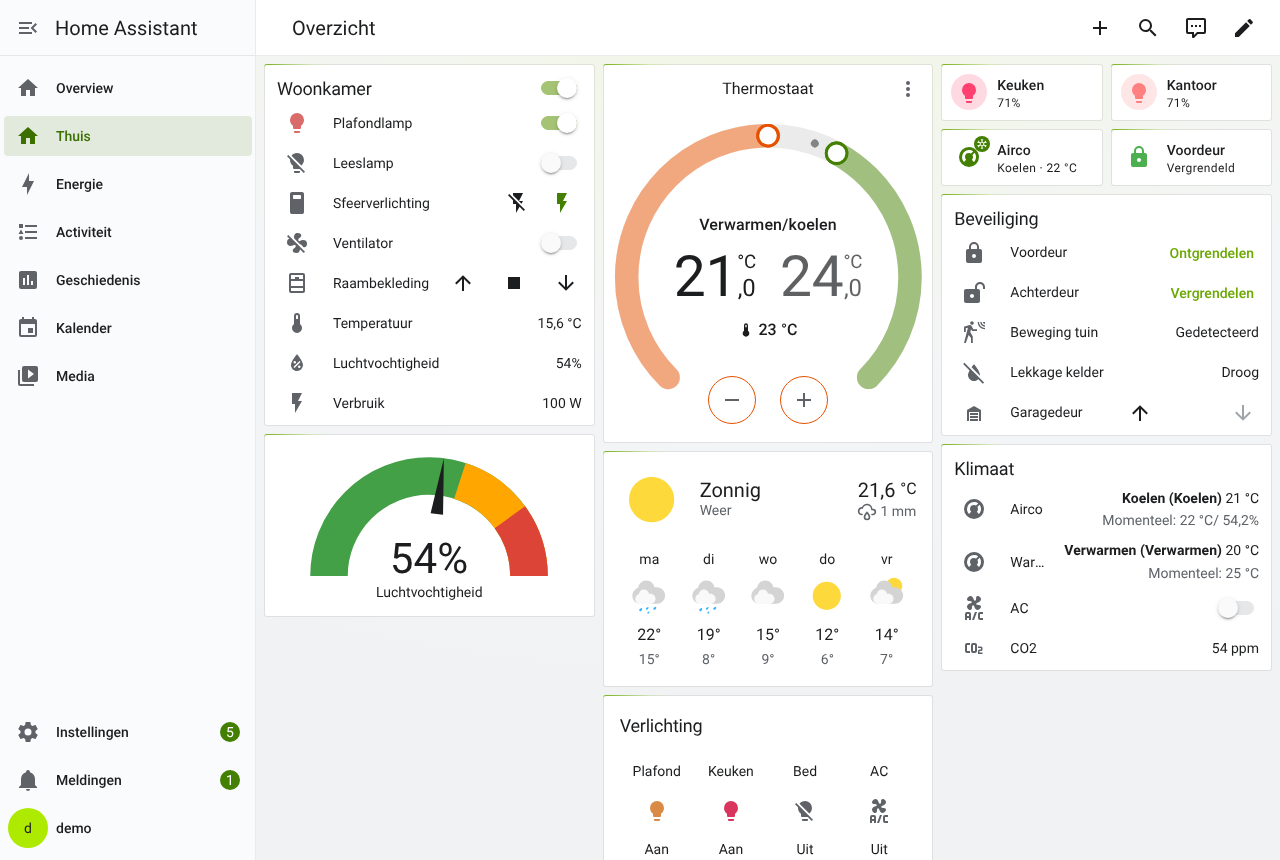
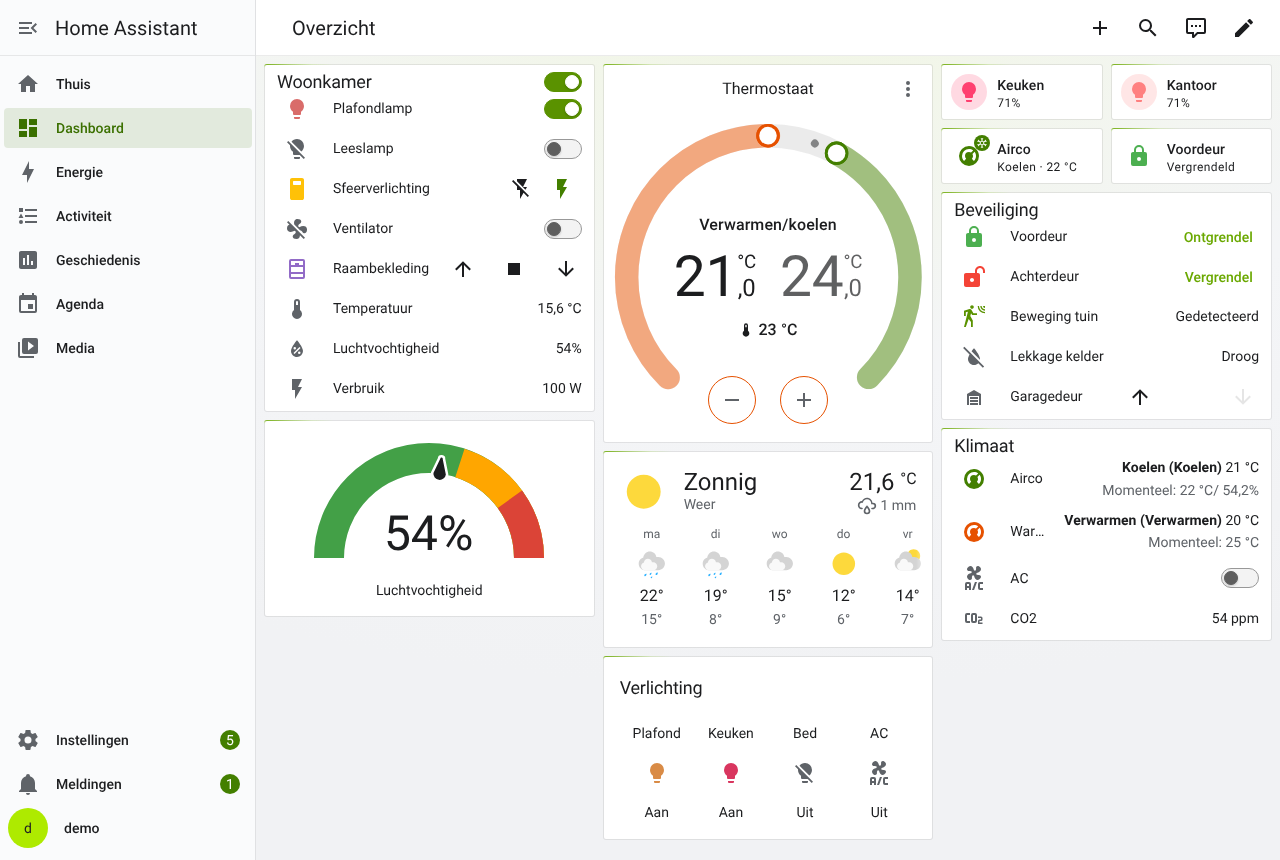
Switch theme styling from card-mod to UI eXtension (UIX)
card-mod no longer loads `-yaml` theme variables since Home Assistant
2026.8, so the compact row styling (card-mod-row-yaml) was not applied.
UI eXtension is card-mod's successor and is what current Home Assistant
installs use.

Rename the theme keys to their UIX equivalents: card-mod-theme ->
uix-theme, card-mod-card -> uix-card, card-mod-row-yaml -> uix-row-yaml.
The CSS itself is unchanged. UIX reads these from the top level of the
theme, so they keep working in both light and dark mode.

The README now lists UIX as the requirement, explains how to add it as
an integration and how to migrate from card-mod. The validation workflow
checks uix-theme and rejects leftover card-mod-* keys. Screenshots are
retaken on Home Assistant 2026.10.4 with UIX 8.4.0.

Claude-Session: https://claude.ai/code/session_017m5WBAKCG499LFapbTeH7Y

diff --git a/README.md b/README.md
@@ -45,7 +45,8 @@ Automatisch, Licht of Donker.
 - Kleurpalet voor HA 2025.8+ (`ha-color-primary-*`) en grafiekkleuren.
 - Afgestemde syntax-highlighting per theme en modus.
 - In de lichte modus haalt tekst in de accentkleur minimaal 4.5:1 contrast.
-- Compacte rijen (minimaal 32px) en compactere kaart-padding via card-mod.
+- Compacte rijen (minimaal 32px) en compactere kaart-padding via
+  [UI eXtension (UIX)](https://uix.lf.technology/).
   Rijen met hogere inhoud, zoals een status op twee regels, `secondary_info`,
   een invoerveld of een dropdown, groeien mee in plaats van te overlappen.
 
@@ -53,9 +54,15 @@ Automatisch, Licht of Donker.
 
 - Home Assistant **2025.8** of nieuwer (voor het nieuwe kleurpalet; oudere
   versies werken grotendeels, maar negeren die variabelen).
-- [card-mod](https://github.com/thomasloven/lovelace-card-mod) (via HACS) voor
-  de compacte rijen en de kaart-styling. Zonder card-mod werken de kleuren wel,
-  maar niet de compacte layout.
+- [UI eXtension (UIX)](https://uix.lf.technology/) (via HACS), de opvolger
+  van card-mod, voor de compacte rijen en de kaart-styling. Zonder UIX werken
+  de kleuren wel, maar niet de compacte layout.
+
+  UIX is een integratie: voeg hem na het downloaden in HACS toe via
+  **Instellingen** → **Apparaten & diensten** → **Integratie toevoegen** →
+  **UI eXtension**. Een `extra_module_url` of dashboard-resource is niet nodig.
+
+Getest met Home Assistant 2026.10.4 en UI eXtension 8.4.0.
 
 ## Installatie
 
@@ -80,7 +87,25 @@ Automatisch, Licht of Donker.
 Kopieer `themes/compact-dark-gradient.yaml` naar de map `themes/` in je
 Home Assistant-configuratie en volg daarna stap 5 t/m 7 hierboven.
 
-## Upgraden vanaf 1.x
+## Upgraden
+
+### Van 2.x naar 3.0: card-mod → UIX
+
+Card-mod laadt sinds Home Assistant 2026.8 geen `-yaml`-themevariabelen meer,
+waardoor de compacte rijen niet werkten. Vanaf 3.0 gebruiken de themes de
+variabelen van UIX (`uix-theme`, `uix-card`, `uix-row-yaml`); card-mod leest
+die niet.
+
+1. Verwijder card-mod in HACS en haal een eventuele card-mod-regel uit
+   `frontend: extra_module_url:` in `configuration.yaml`.
+2. Installeer UI eXtension via HACS en voeg de integratie toe (zie
+   [Vereisten](#vereisten)).
+3. Herstart Home Assistant.
+
+Bestaande `card_mod:`-configuratie in je eigen kaarten blijft werken: UIX
+leest die ook.
+
+### Van 1.x naar 2.0: nieuwe themanamen
 
 In 2.0 zijn de themes hernoemd, omdat ze nu zowel licht als donker zijn:
 
@@ -95,15 +120,15 @@ naam in automatiseringen of in `frontend.set_theme`, pas die dan ook aan.
 
 ## Aanpassen
 
-Elk theme bestaat uit een gedeeld deel (compacte layout en card-mod) en per
+Elk theme bestaat uit een gedeeld deel (compacte layout en UIX) en per
 modus een blok onder `modes: dark:` en `modes: light:`. De kaartrand-glow en
 afronding zijn per modus af te stellen in `ha-card-background` en
 `ha-card-border-radius`; de commentaarblokken in het YAML-bestand beschrijven
 welke waarden je waarvoor aanpast.
 
-> **Let op:** `card-mod-theme` moet exact gelijk zijn aan de themanaam.
+> **Let op:** `uix-theme` moet exact gelijk zijn aan de themanaam.
 > Hernoem je een theme, pas dan ook die waarde aan, anders wordt de
-> card-mod-styling niet toegepast.
+> UIX-styling niet toegepast.
 
 ## Licentie
 
